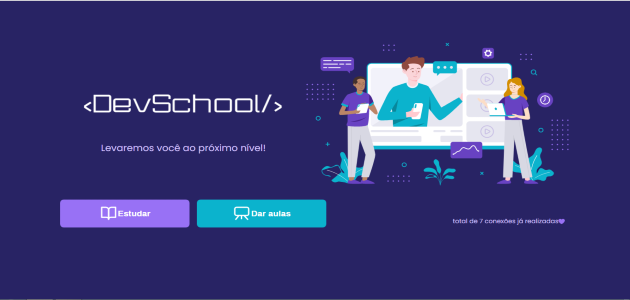
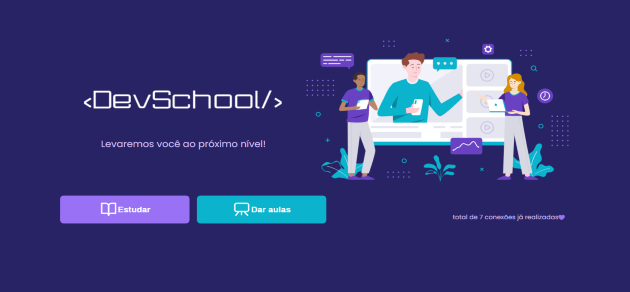
change

diff --git a/src/components/pages/projects/index.jsx b/src/components/pages/projects/index.jsx
@@ -13,7 +13,7 @@ import foodSmall from '../../images/foodfySmall.jpg'
 import foodLarge from '../../images/foodfyLarge.png'
 import devschoolSmall from '../../images/devscroolFront Small.png'
 import devschoolLarge from '../../images/devscroolFrontLarge.png'
-
+import spotify from '../../images/spotifyWeb.png'
 
 function Projects (){
     return( 
@@ -30,6 +30,8 @@ function Projects (){
         <CardProject small={cod3rSmall} href='https://github.com/Jonathas-Oliveira/SPA-AJAX' large={cod3rLarge} titleCard='Cod3r'  />
         <CardProject small={foodSmall} href='https://github.com/Jonathas-Oliveira/LaunchBase' large={foodLarge} titleCard='FoodFy' />
         <CardProject small={devschoolSmall} href='https://github.com/Jonathas-Oliveira/DevSchool' large={devschoolLarge} titleCard='DevSchool'/>
+        <CardProject small={spotify} href='https://github.com/Jonathas-Oliveira/Spotify-Clone' large={spotify} titleCard='Spotify Clone'/>
+
         </div>
         
         </div>

diff --git a/src/components/utils/ModalCard/index.jsx b/src/components/utils/ModalCard/index.jsx
@@ -6,7 +6,7 @@ import './styyle.css'
     const [ModalOpen,setModalOpen]= useState(false)
 
     return(
-        <div>
+        <div className='ModalCardContainer'>
         <button   onClick={() => setModalOpen(true)}><CardDrop flag={props.flag} title={props.title} data={props.data}/></button>
         
         <Modal className='ModalBody' onRequestClose={() => setModalOpen(false)}  isOpen={ModalOpen} >

diff --git a/src/components/pages/landing/style.css b/src/components/pages/landing/style.css
@@ -15,8 +15,9 @@ body,html{
     margin-left: 0px;
 }
 .burguer{
-    margin-left: 350px;
+    margin-left: 330px;
     margin-top: 30px;
+    
     
 }
 .navegation{

diff --git a/src/components/utils/ModalButton/styles.css b/src/components/utils/ModalButton/styles.css
@@ -4,6 +4,9 @@
     margin-left: 0px;
     background: #121214;
 }
+.buttonModal{
+    width:480px
+}
 .close{
     margin-left: 370px;
     margin-top: 20px;

diff --git a/src/components/pages/drops/style.css b/src/components/pages/drops/style.css
@@ -18,7 +18,7 @@
     margin-right: 0px;
 }
 .ContainerModalCard{
-    width: 380px;
+    width: 270px;
 }
 
 @media(min-width:800px){

diff --git a/src/components/utils/ModalCard/styyle.css b/src/components/utils/ModalCard/styyle.css
@@ -36,6 +36,7 @@ button{
 	width: 290px;
 	height: 90px;
 }
+
 .mobileButton{
 	margin-right: 30px;
 	height: 35px;
